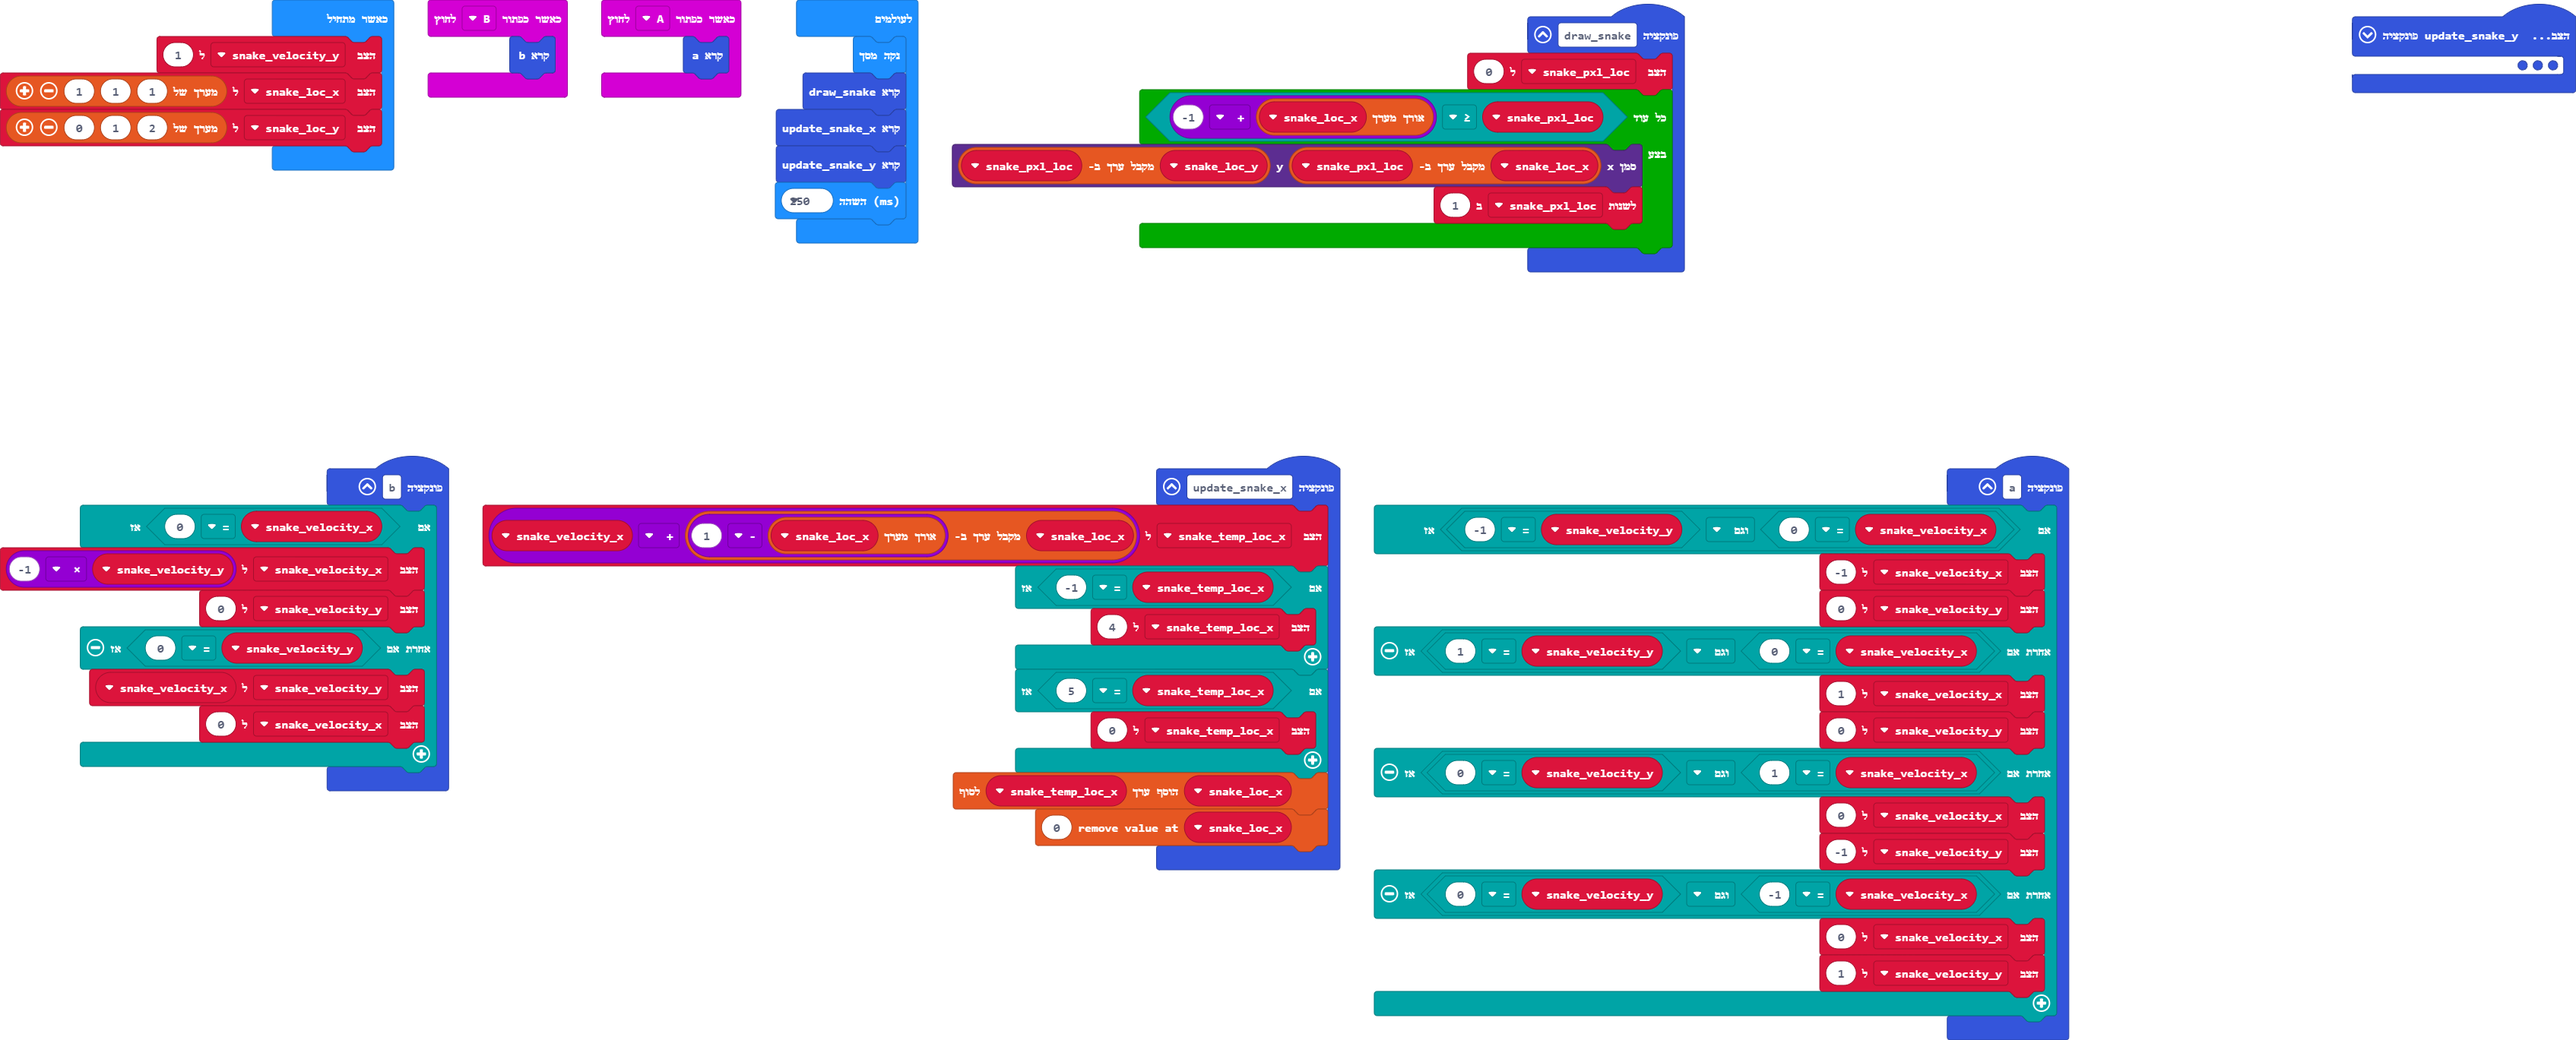
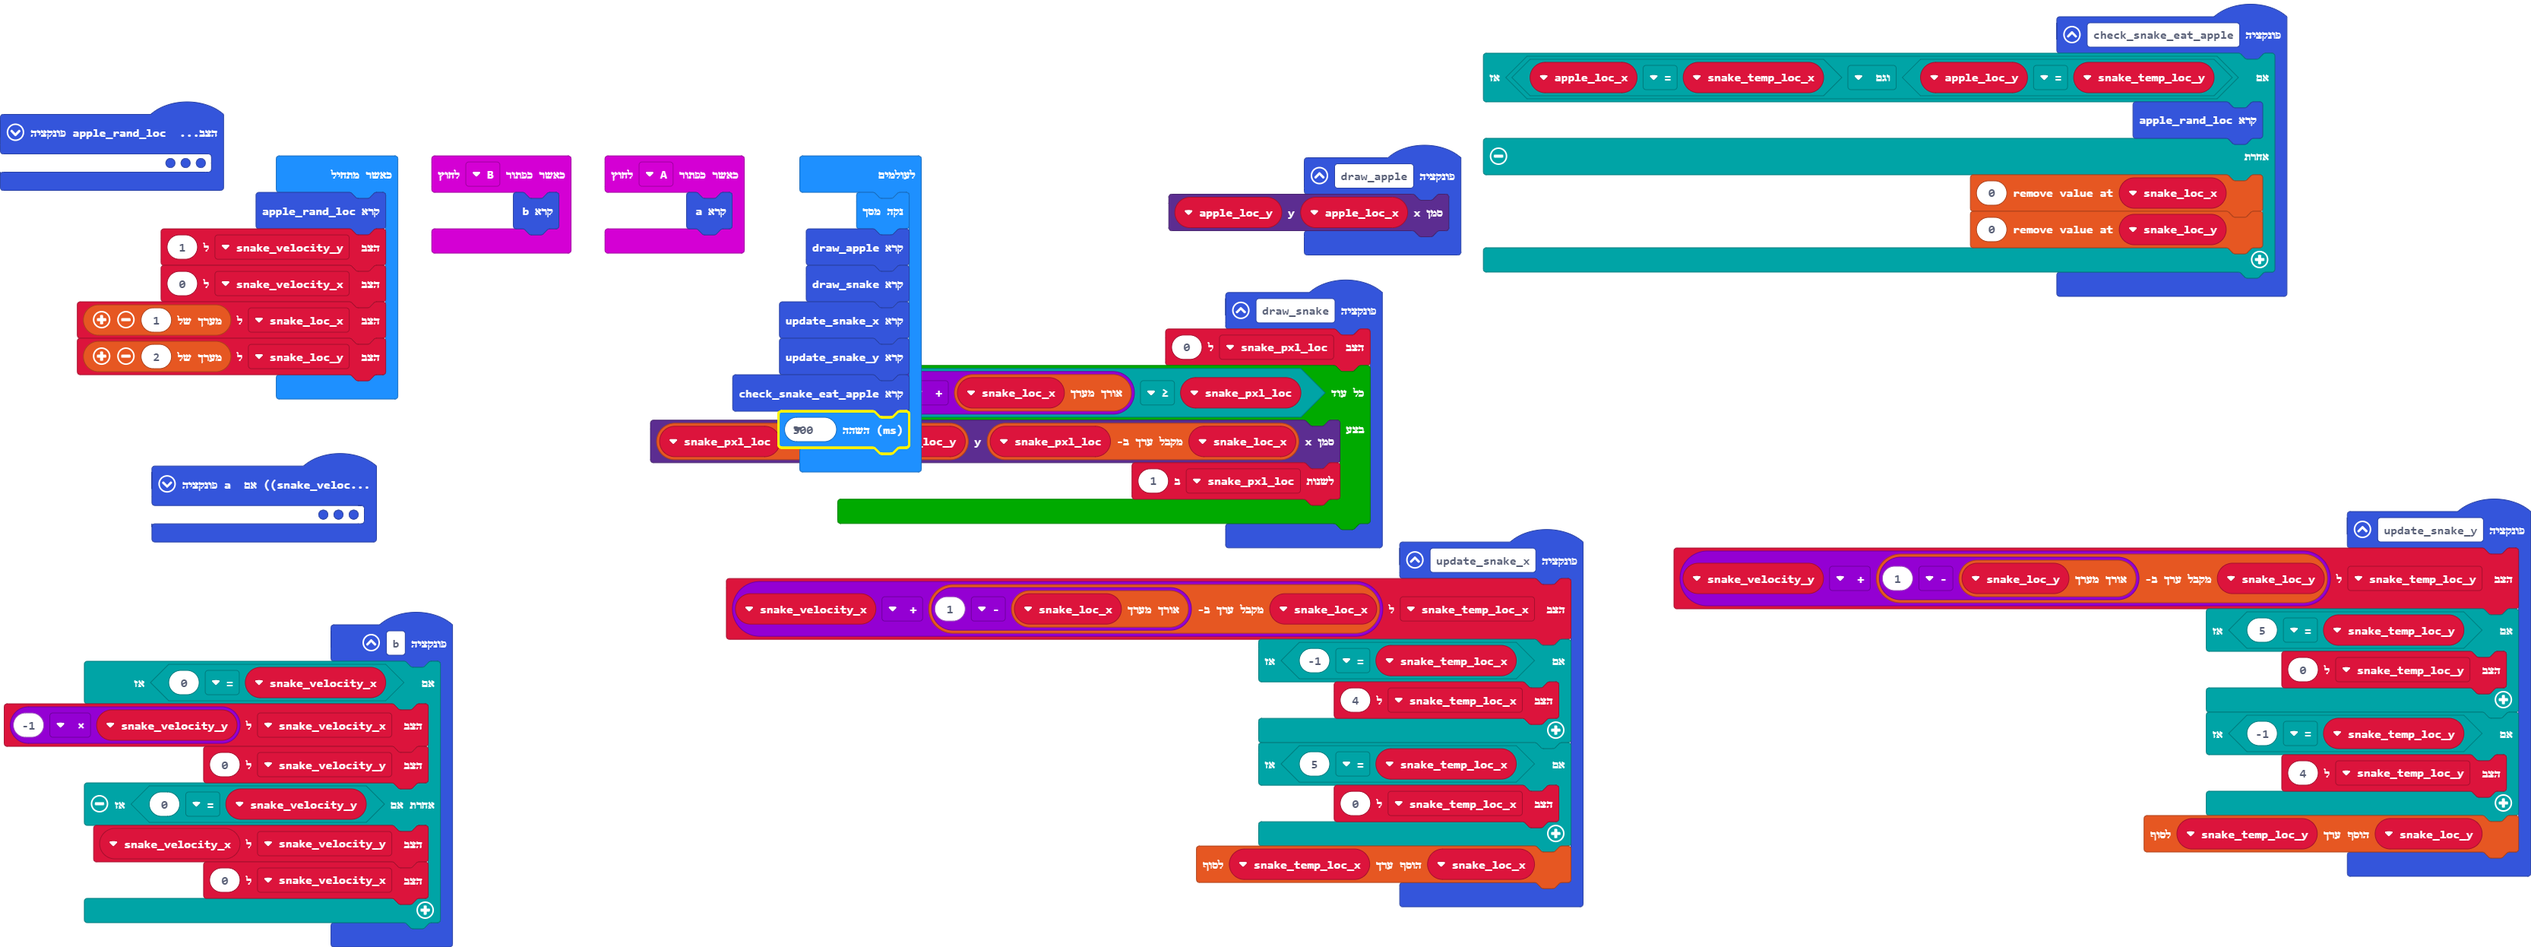
added apple

diff --git a/main.ts b/main.ts
@@ -6,7 +6,7 @@ function draw_snake () {
     }
 }
 function update_snake_y () {
-    snake_temp_loc_y = snake_loc_y[snake_loc_x.length - 1] + snake_velocity_y
+    snake_temp_loc_y = snake_loc_y[snake_loc_y.length - 1] + snake_velocity_y
     if (snake_temp_loc_y == 5) {
         snake_temp_loc_y = 0
     }
@@ -14,7 +14,6 @@ function update_snake_y () {
         snake_temp_loc_y = 4
     }
     snake_loc_y.push(snake_temp_loc_y)
-    snake_loc_y.removeAt(0)
 }
 input.onButtonPressed(Button.A, function () {
     a()
@@ -28,6 +27,9 @@ function b () {
         snake_velocity_x = 0
     }
 }
+function draw_apple () {
+    led.plot(apple_loc_x, apple_loc_y)
+}
 function update_snake_x () {
     snake_temp_loc_x = snake_loc_x[snake_loc_x.length - 1] + snake_velocity_x
     if (snake_temp_loc_x == -1) {
@@ -37,7 +39,6 @@ function update_snake_x () {
         snake_temp_loc_x = 0
     }
     snake_loc_x.push(snake_temp_loc_x)
-    snake_loc_x.removeAt(0)
 }
 function a () {
     if (snake_velocity_x == 0 && snake_velocity_y == -1) {
@@ -57,20 +58,38 @@ function a () {
 input.onButtonPressed(Button.B, function () {
     b()
 })
+function apple_rand_loc () {
+    apple_loc_y = randint(0, 4)
+    apple_loc_x = randint(0, 4)
+}
+function check_snake_eat_apple () {
+    if (snake_temp_loc_y == apple_loc_y && snake_temp_loc_x == apple_loc_x) {
+        apple_rand_loc()
+    } else {
+        snake_loc_x.removeAt(0)
+        snake_loc_y.removeAt(0)
+    }
+}
 let snake_temp_loc_x = 0
-let snake_velocity_x = 0
+let apple_loc_y = 0
+let apple_loc_x = 0
 let snake_temp_loc_y = 0
 let snake_pxl_loc = 0
 let snake_loc_y: number[] = []
 let snake_loc_x: number[] = []
+let snake_velocity_x = 0
 let snake_velocity_y = 0
+apple_rand_loc()
 snake_velocity_y = 1
-snake_loc_x = [1, 1, 1]
-snake_loc_y = [2, 1, 0]
+snake_velocity_x = 0
+snake_loc_x = [1]
+snake_loc_y = [2]
 basic.forever(function () {
     basic.clearScreen()
+    draw_apple()
     draw_snake()
     update_snake_x()
     update_snake_y()
-    basic.pause(250)
+    check_snake_eat_apple()
+    basic.pause(300)
 })
